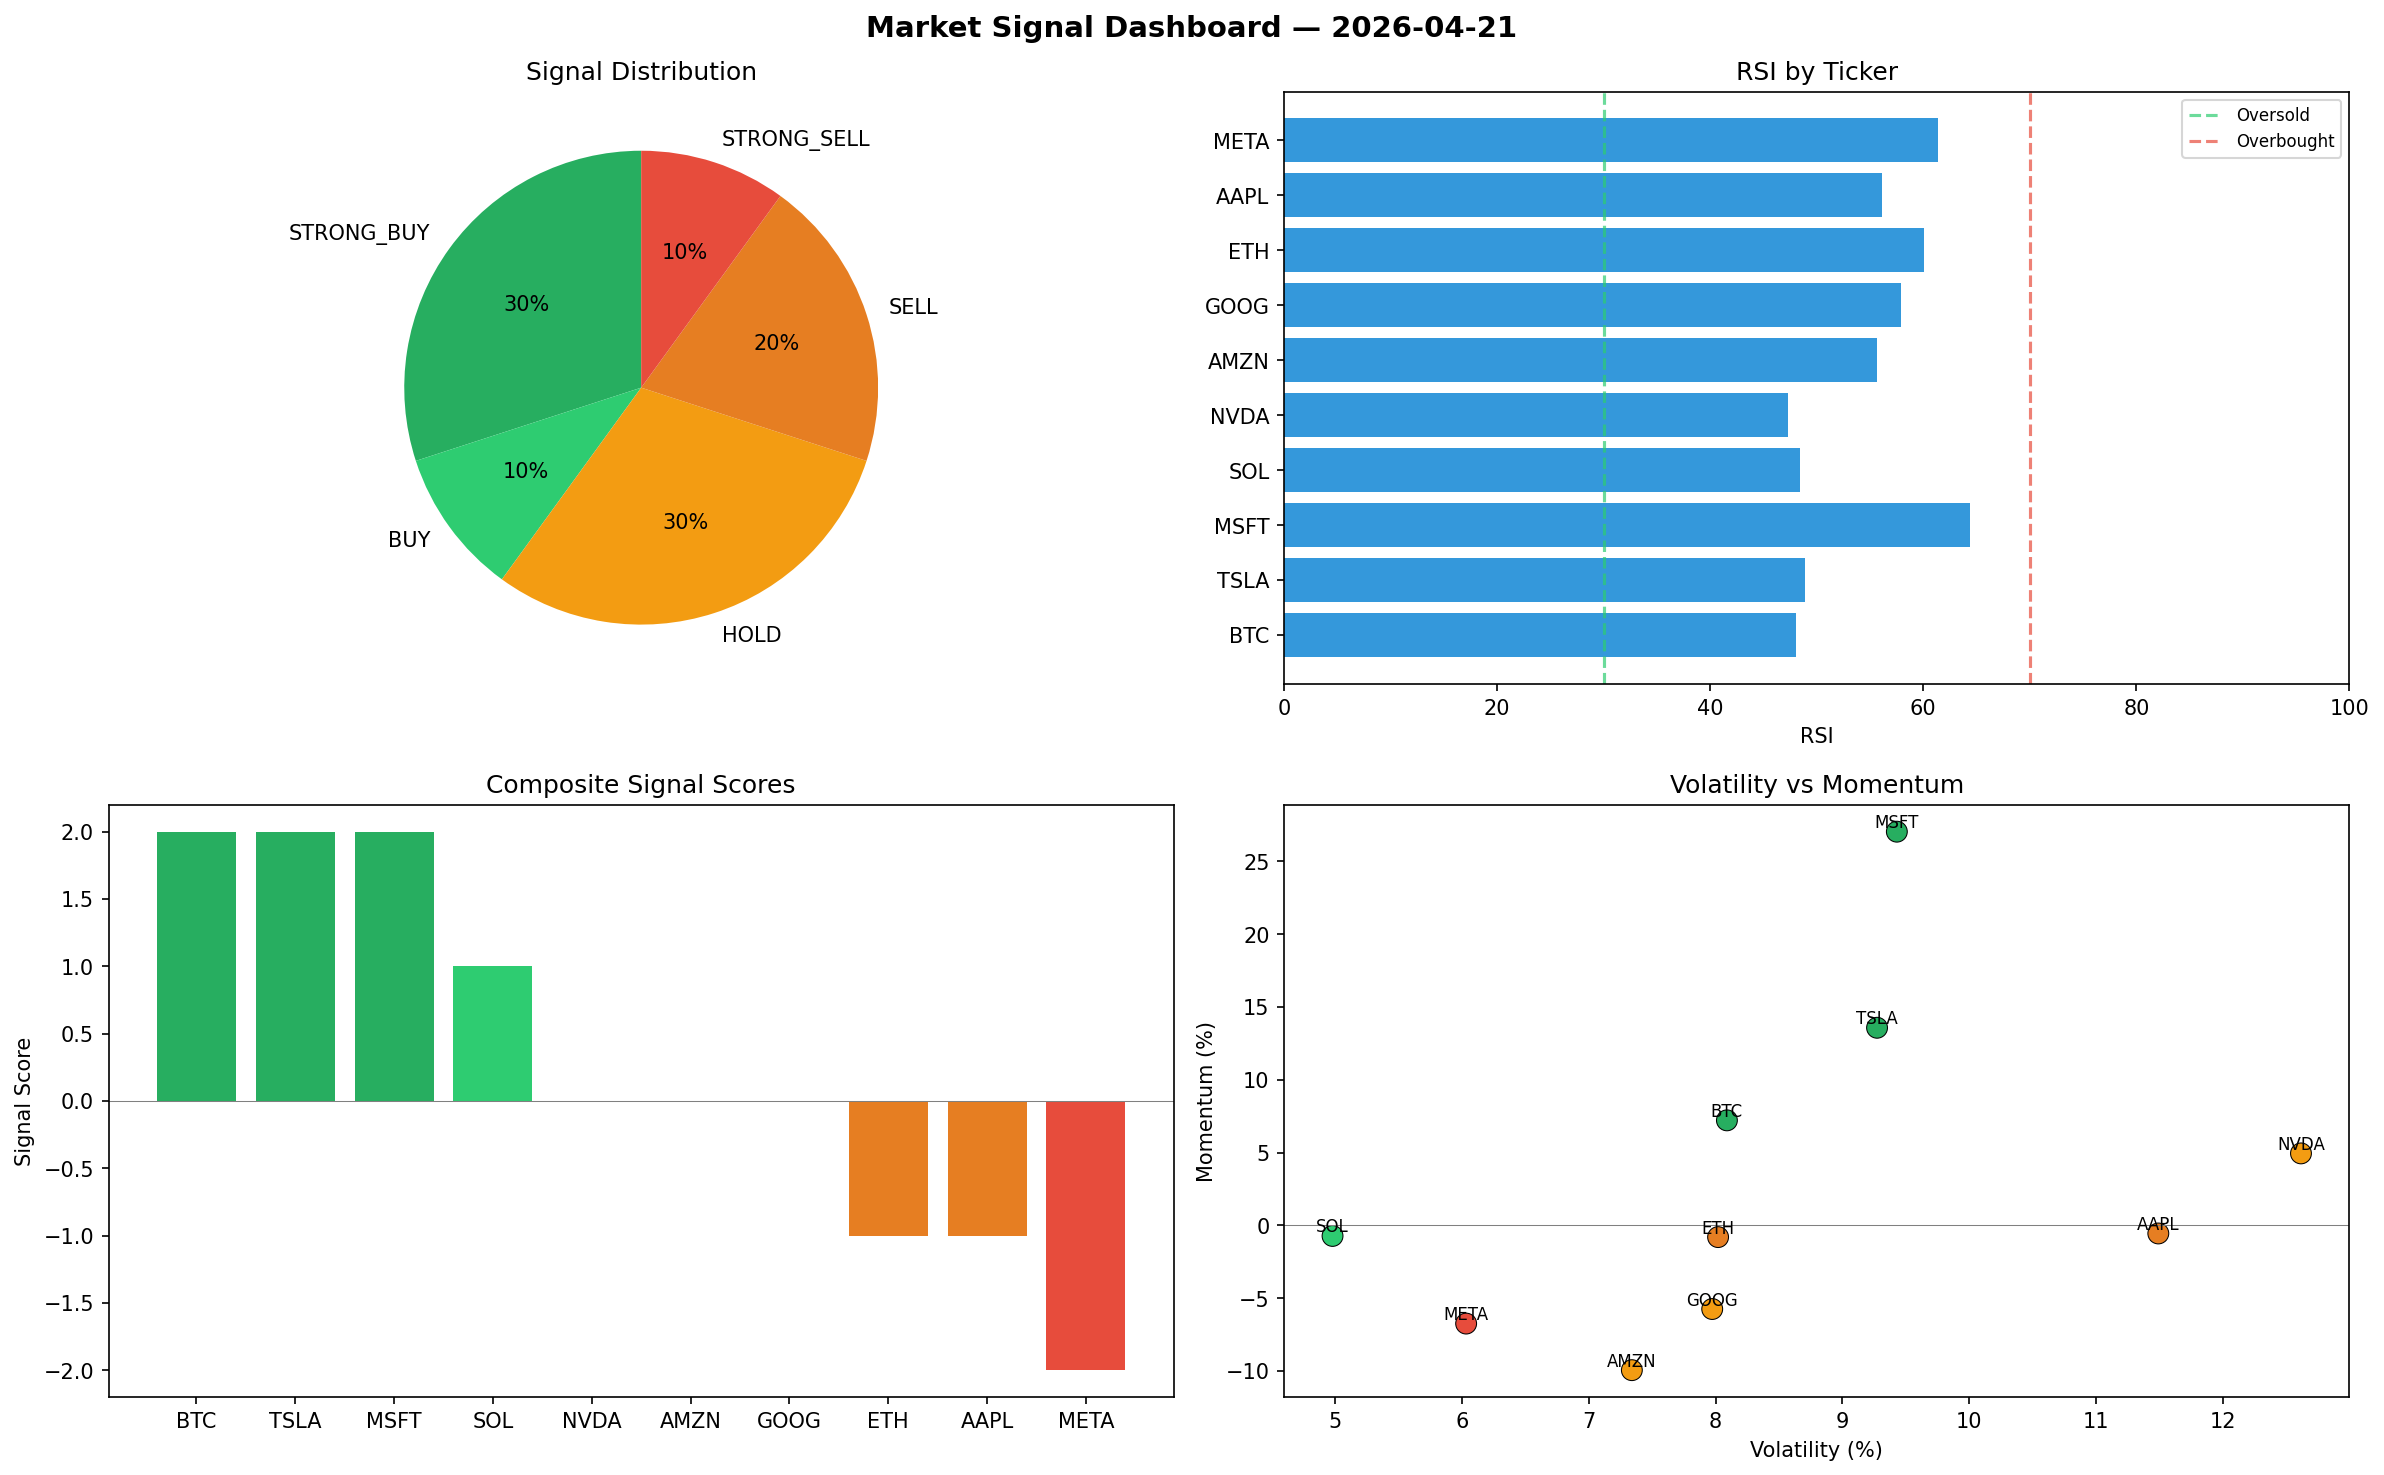
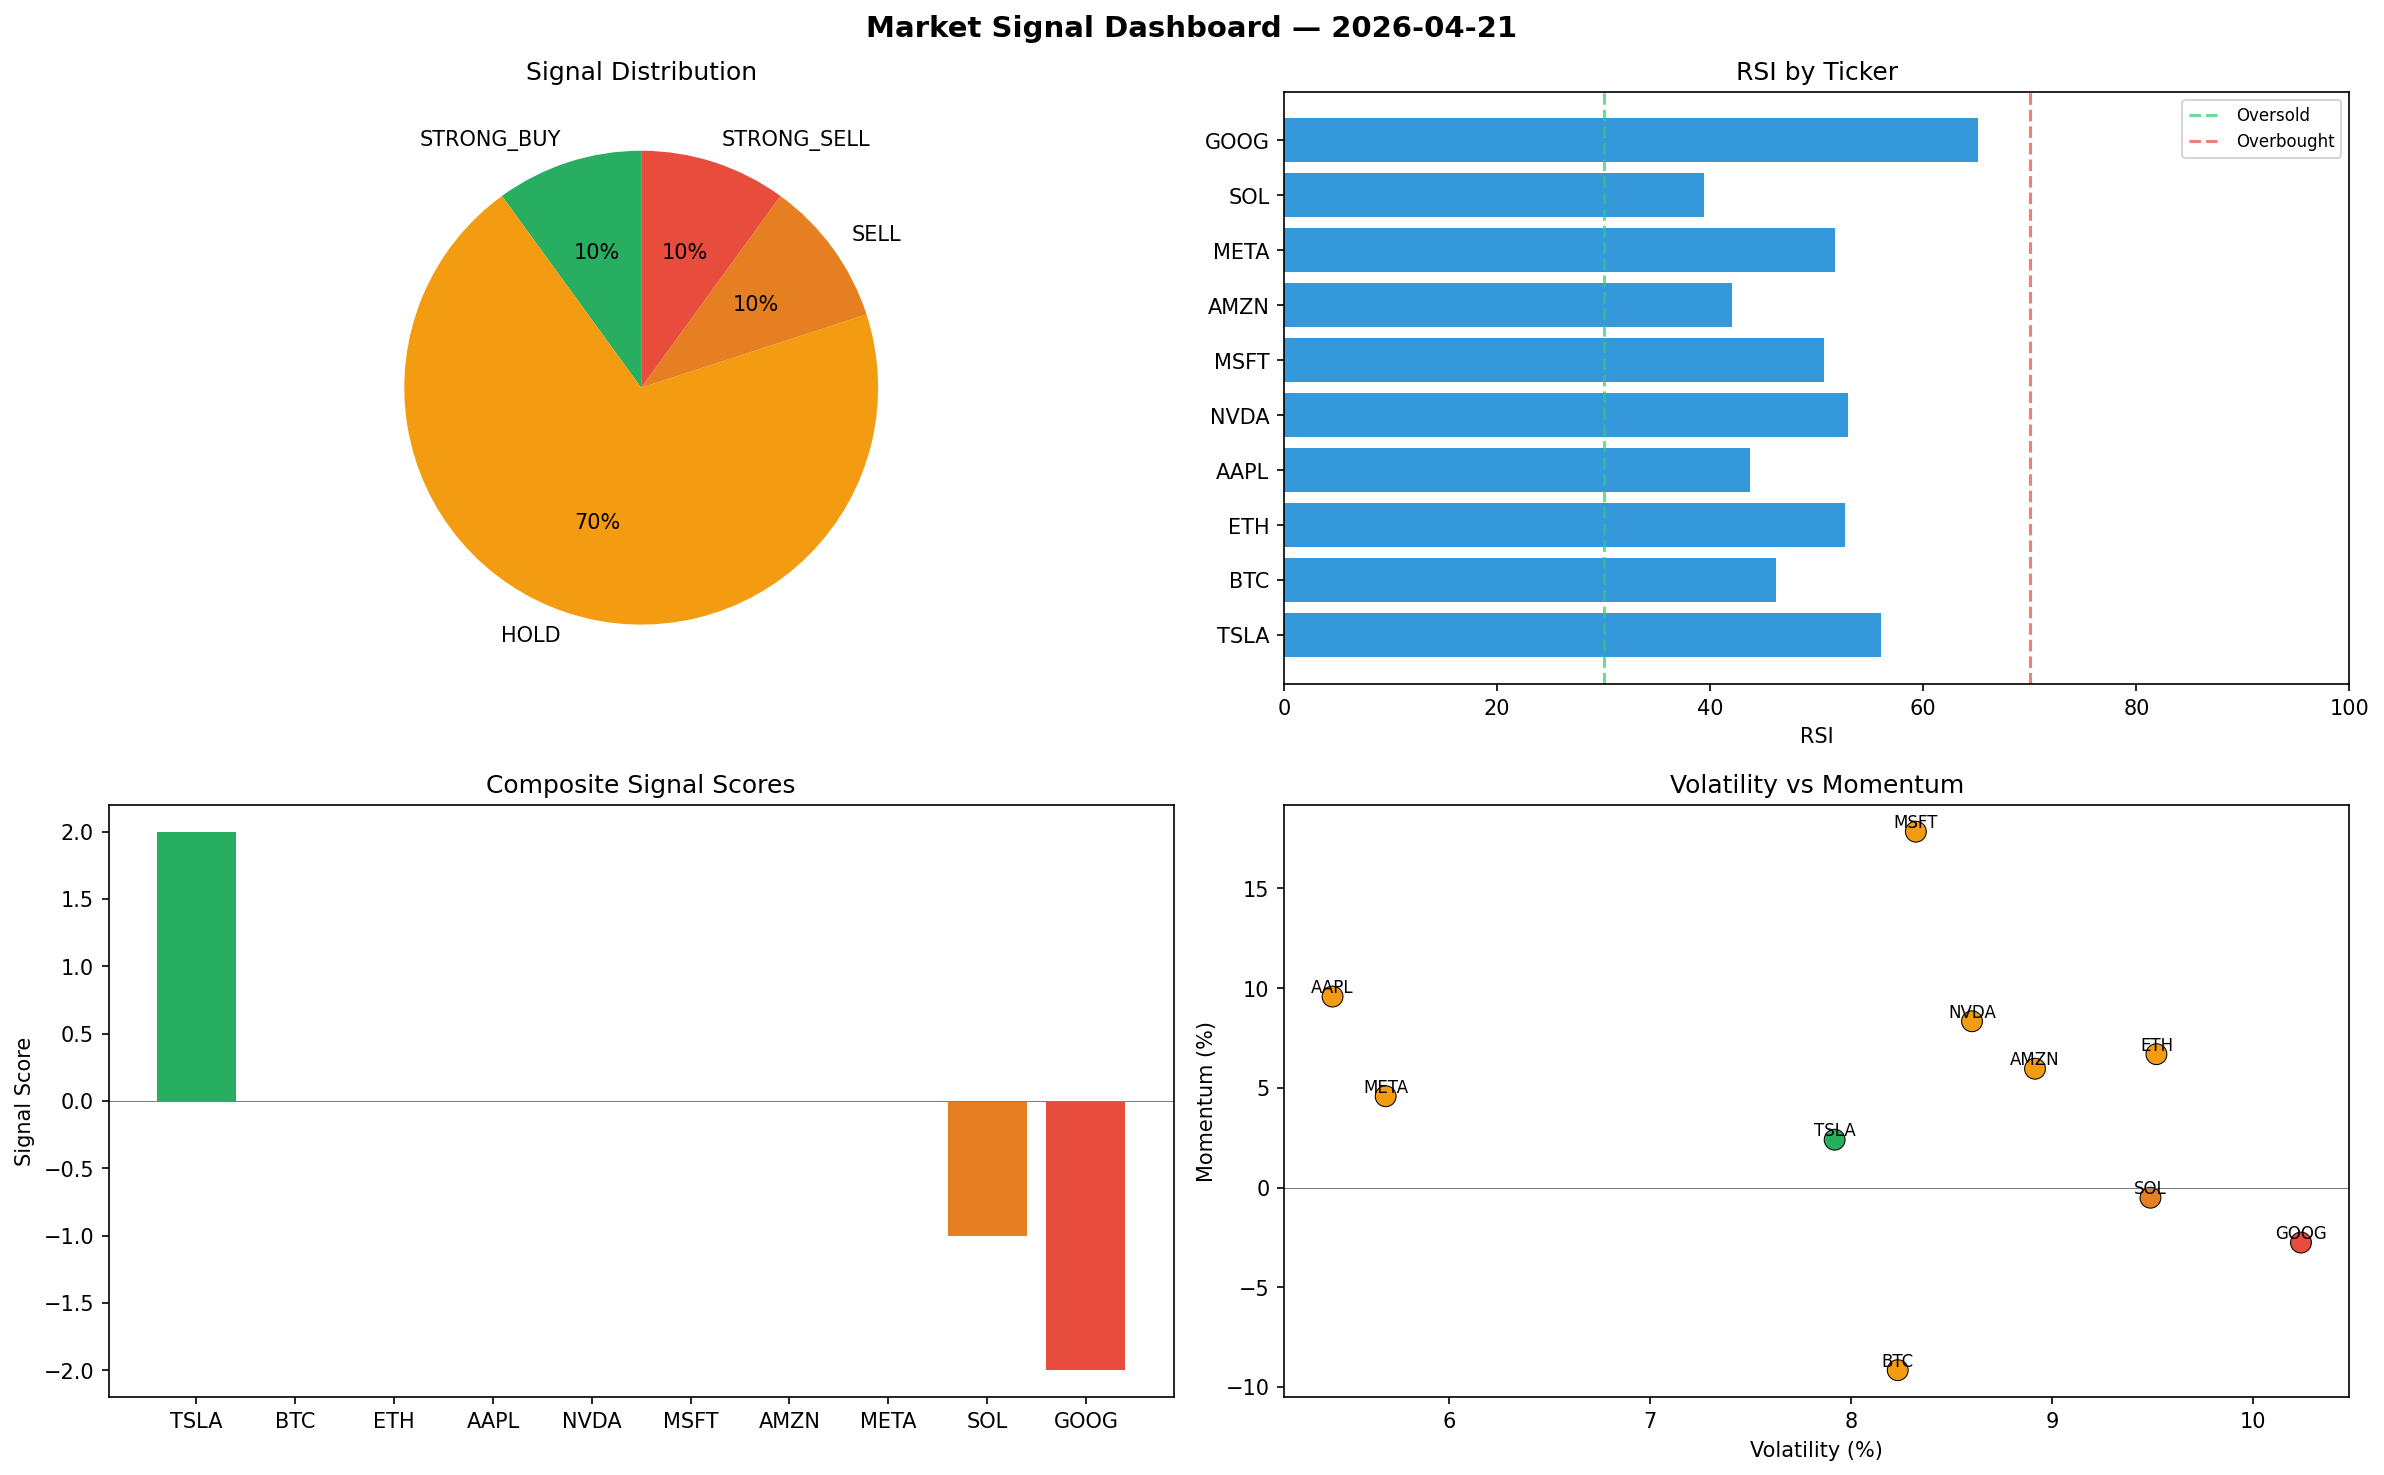
automated-bots: market signals 2026-04-21T09:57

diff --git a/logs/2026-04-21.md b/logs/2026-04-21.md
@@ -1,6 +1,6 @@
 # Market Signal Report — 2026-04-21
 
-**Run ID:** `e9694a7356` | **Buy:** 4 | **Sell:** 3 | **Hold:** 3
+**Run ID:** `e718fe1b21` | **Buy:** 1 | **Sell:** 2 | **Hold:** 7
 
 ![Dashboard](2026-04-21_dashboard.png)
 
@@ -8,28 +8,28 @@
 
 | Ticker | Price | Signal | Score | RSI | Momentum | Confidence |
 |--------|-------|--------|-------|-----|----------|------------|
-| BTC | $582.14 | **STRONG_BUY** | 2 | 48.09 | 0.0721 | 0.5 |
-| TSLA | $322.9 | **STRONG_BUY** | 2 | 48.9 | 0.1357 | 0.5 |
-| MSFT | $127.51 | **STRONG_BUY** | 2 | 64.38 | 0.2704 | 0.5 |
-| SOL | $1846.69 | **BUY** | 1 | 48.46 | -0.0073 | 0.25 |
-| NVDA | $1133.42 | **HOLD** | 0 | 47.33 | 0.0494 | 0.0 |
-| AMZN | $3707.35 | **HOLD** | 0 | 55.61 | -0.0995 | 0.0 |
-| GOOG | $4057.0 | **HOLD** | 0 | 57.92 | -0.0575 | 0.0 |
-| ETH | $1371.89 | **SELL** | -1 | 60.06 | -0.0081 | 0.25 |
-| AAPL | $2167.81 | **SELL** | -1 | 56.11 | -0.0056 | 0.25 |
-| META | $2361.85 | **STRONG_SELL** | -2 | 61.35 | -0.0675 | 0.5 |
+| TSLA | $4774.4 | **STRONG_BUY** | 2 | 56.02 | 0.024 | 0.5 |
+| BTC | $3736.89 | **HOLD** | 0 | 46.19 | -0.0916 | 0.0 |
+| ETH | $4466.02 | **HOLD** | 0 | 52.61 | 0.0669 | 0.0 |
+| AAPL | $3371.35 | **HOLD** | 0 | 43.76 | 0.0958 | 0.0 |
+| NVDA | $3415.65 | **HOLD** | 0 | 52.9 | 0.0834 | 0.0 |
+| MSFT | $1311.69 | **HOLD** | 0 | 50.71 | 0.1785 | 0.0 |
+| AMZN | $1481.35 | **HOLD** | 0 | 42.07 | 0.0596 | 0.0 |
+| META | $4966.83 | **HOLD** | 0 | 51.68 | 0.0458 | 0.0 |
+| SOL | $5198.61 | **SELL** | -1 | 39.4 | -0.0051 | 0.25 |
+| GOOG | $4244.54 | **STRONG_SELL** | -2 | 65.15 | -0.0276 | 0.5 |
 
 ## Delta vs Yesterday
 
 | Ticker | Today | Yesterday | Price Change | Signal Changed |
 |--------|-------|-----------|-------------|----------------|
-| BTC | STRONG_BUY | STRONG_SELL | 📈 116.22% | ⚠ YES |
-| TSLA | STRONG_BUY | HOLD | 📉 -91.89% | ⚠ YES |
-| MSFT | STRONG_BUY | STRONG_SELL | 📉 -96.13% | ⚠ YES |
-| SOL | BUY | STRONG_BUY | 📉 -29.94% | ⚠ YES |
-| NVDA | HOLD | HOLD | 📉 -64.19% | — |
-| AMZN | HOLD | SELL | 📈 246.93% | ⚠ YES |
-| GOOG | HOLD | STRONG_BUY | 📈 795.23% | ⚠ YES |
-| ETH | SELL | STRONG_BUY | 📉 -52.98% | ⚠ YES |
-| AAPL | SELL | STRONG_BUY | 📈 357.39% | ⚠ YES |
-| META | STRONG_SELL | STRONG_BUY | 📉 -10.02% | ⚠ YES |
+| TSLA | STRONG_BUY | HOLD | 📈 19.96% | ⚠ YES |
+| BTC | HOLD | STRONG_SELL | 📈 1287.94% | ⚠ YES |
+| ETH | HOLD | STRONG_BUY | 📈 53.06% | ⚠ YES |
+| AAPL | HOLD | STRONG_BUY | 📈 611.33% | ⚠ YES |
+| NVDA | HOLD | HOLD | 📈 7.91% | — |
+| MSFT | HOLD | STRONG_SELL | 📉 -60.2% | ⚠ YES |
+| AMZN | HOLD | SELL | 📈 38.62% | ⚠ YES |
+| META | HOLD | STRONG_BUY | 📈 89.22% | ⚠ YES |
+| SOL | SELL | STRONG_BUY | 📈 97.22% | ⚠ YES |
+| GOOG | STRONG_SELL | STRONG_BUY | 📈 836.61% | ⚠ YES |
